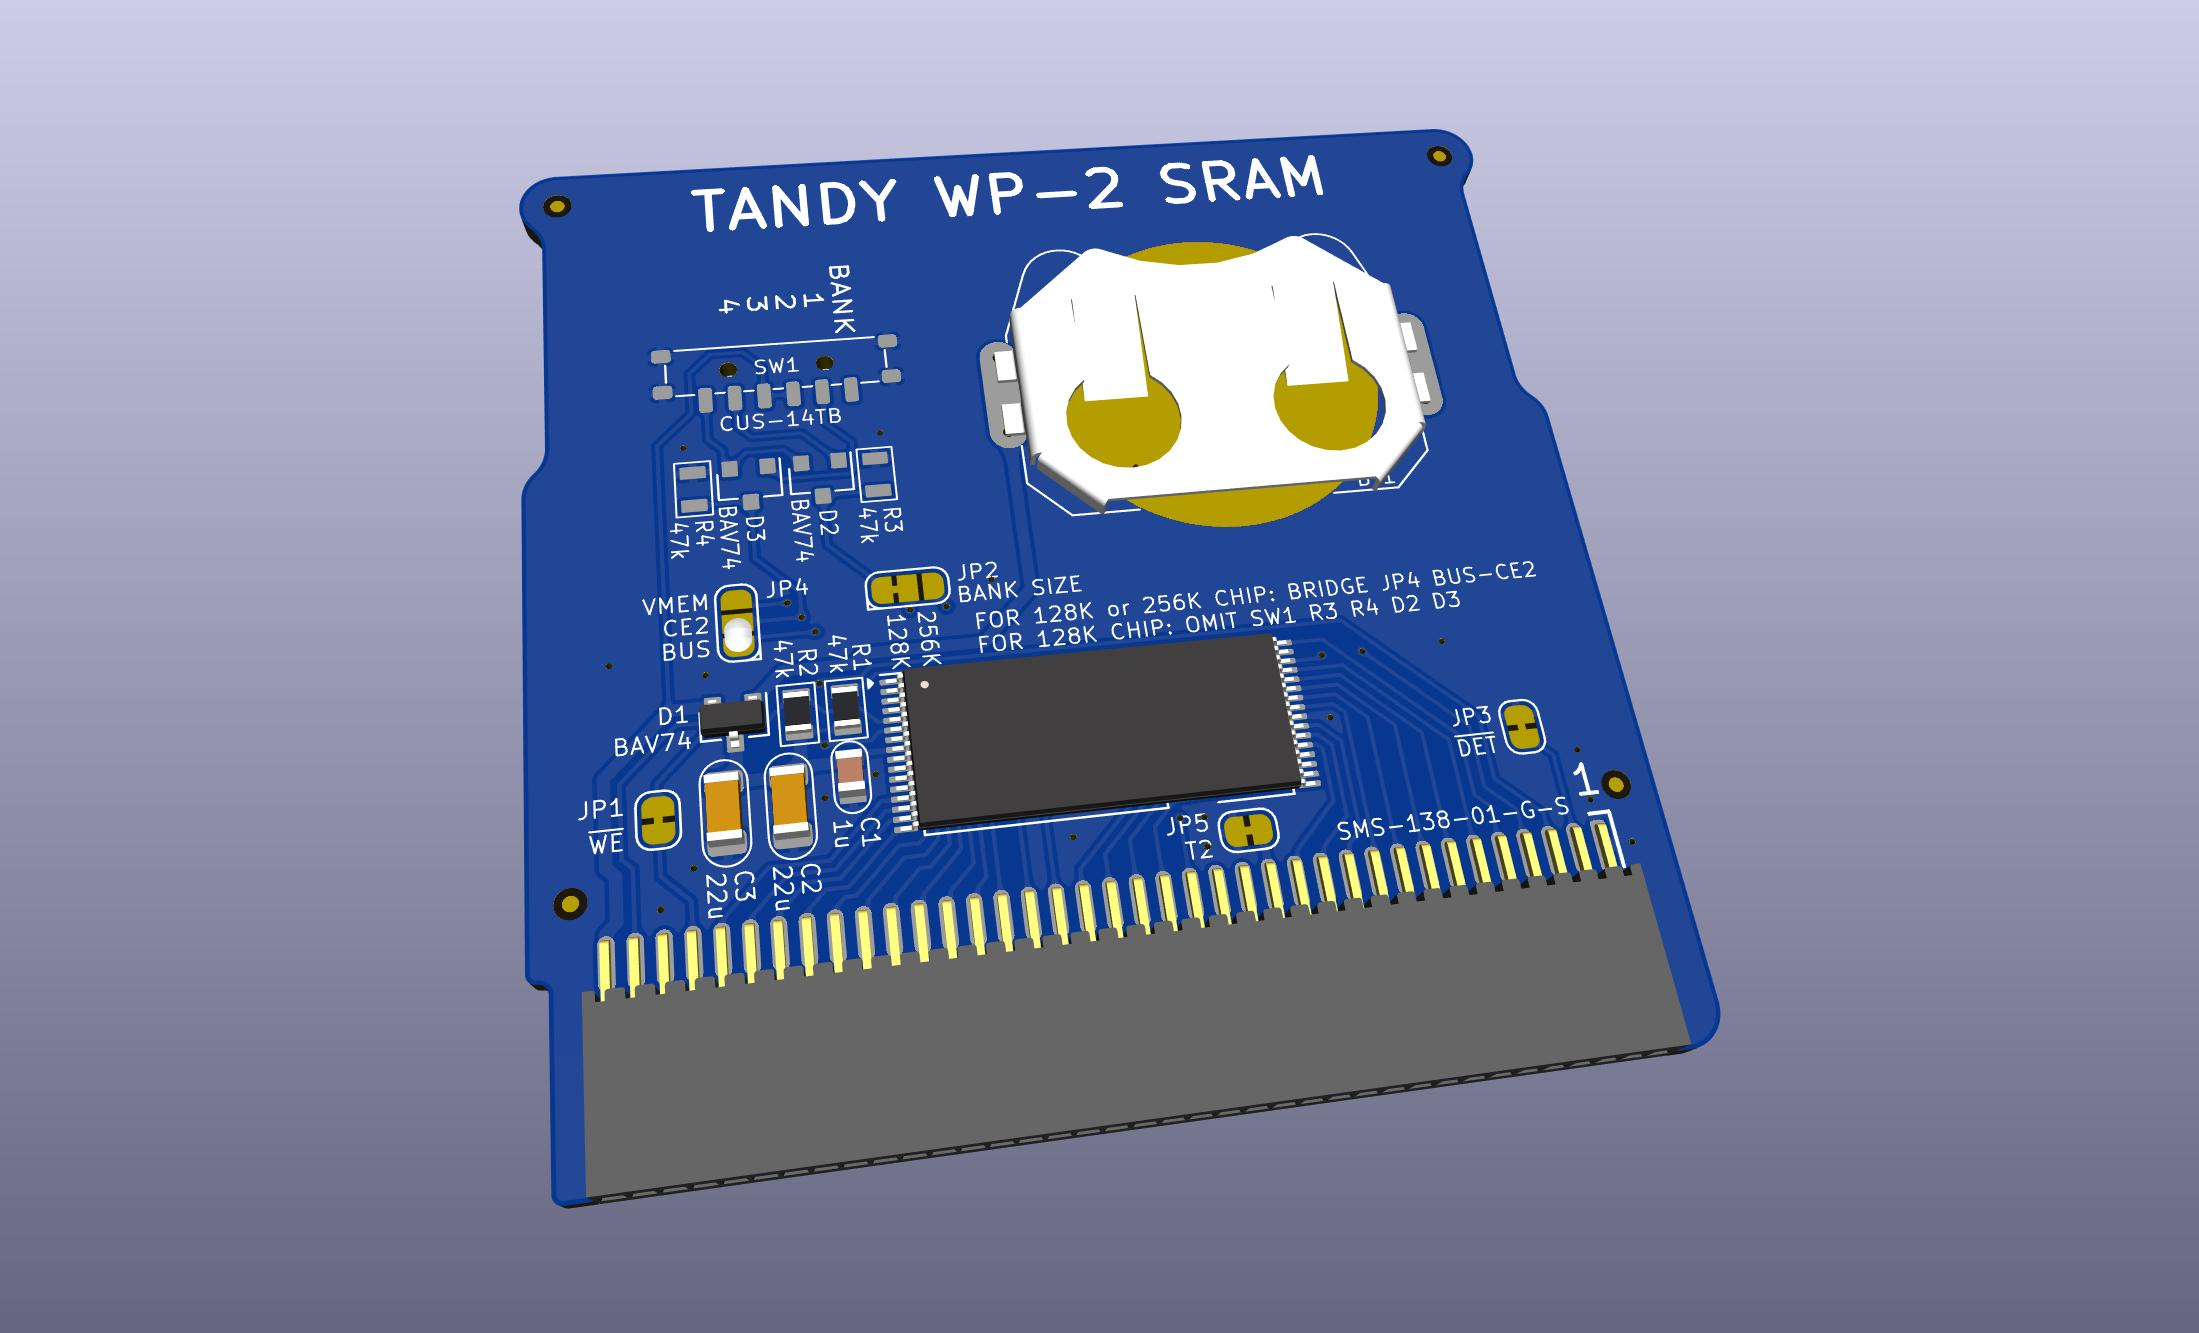
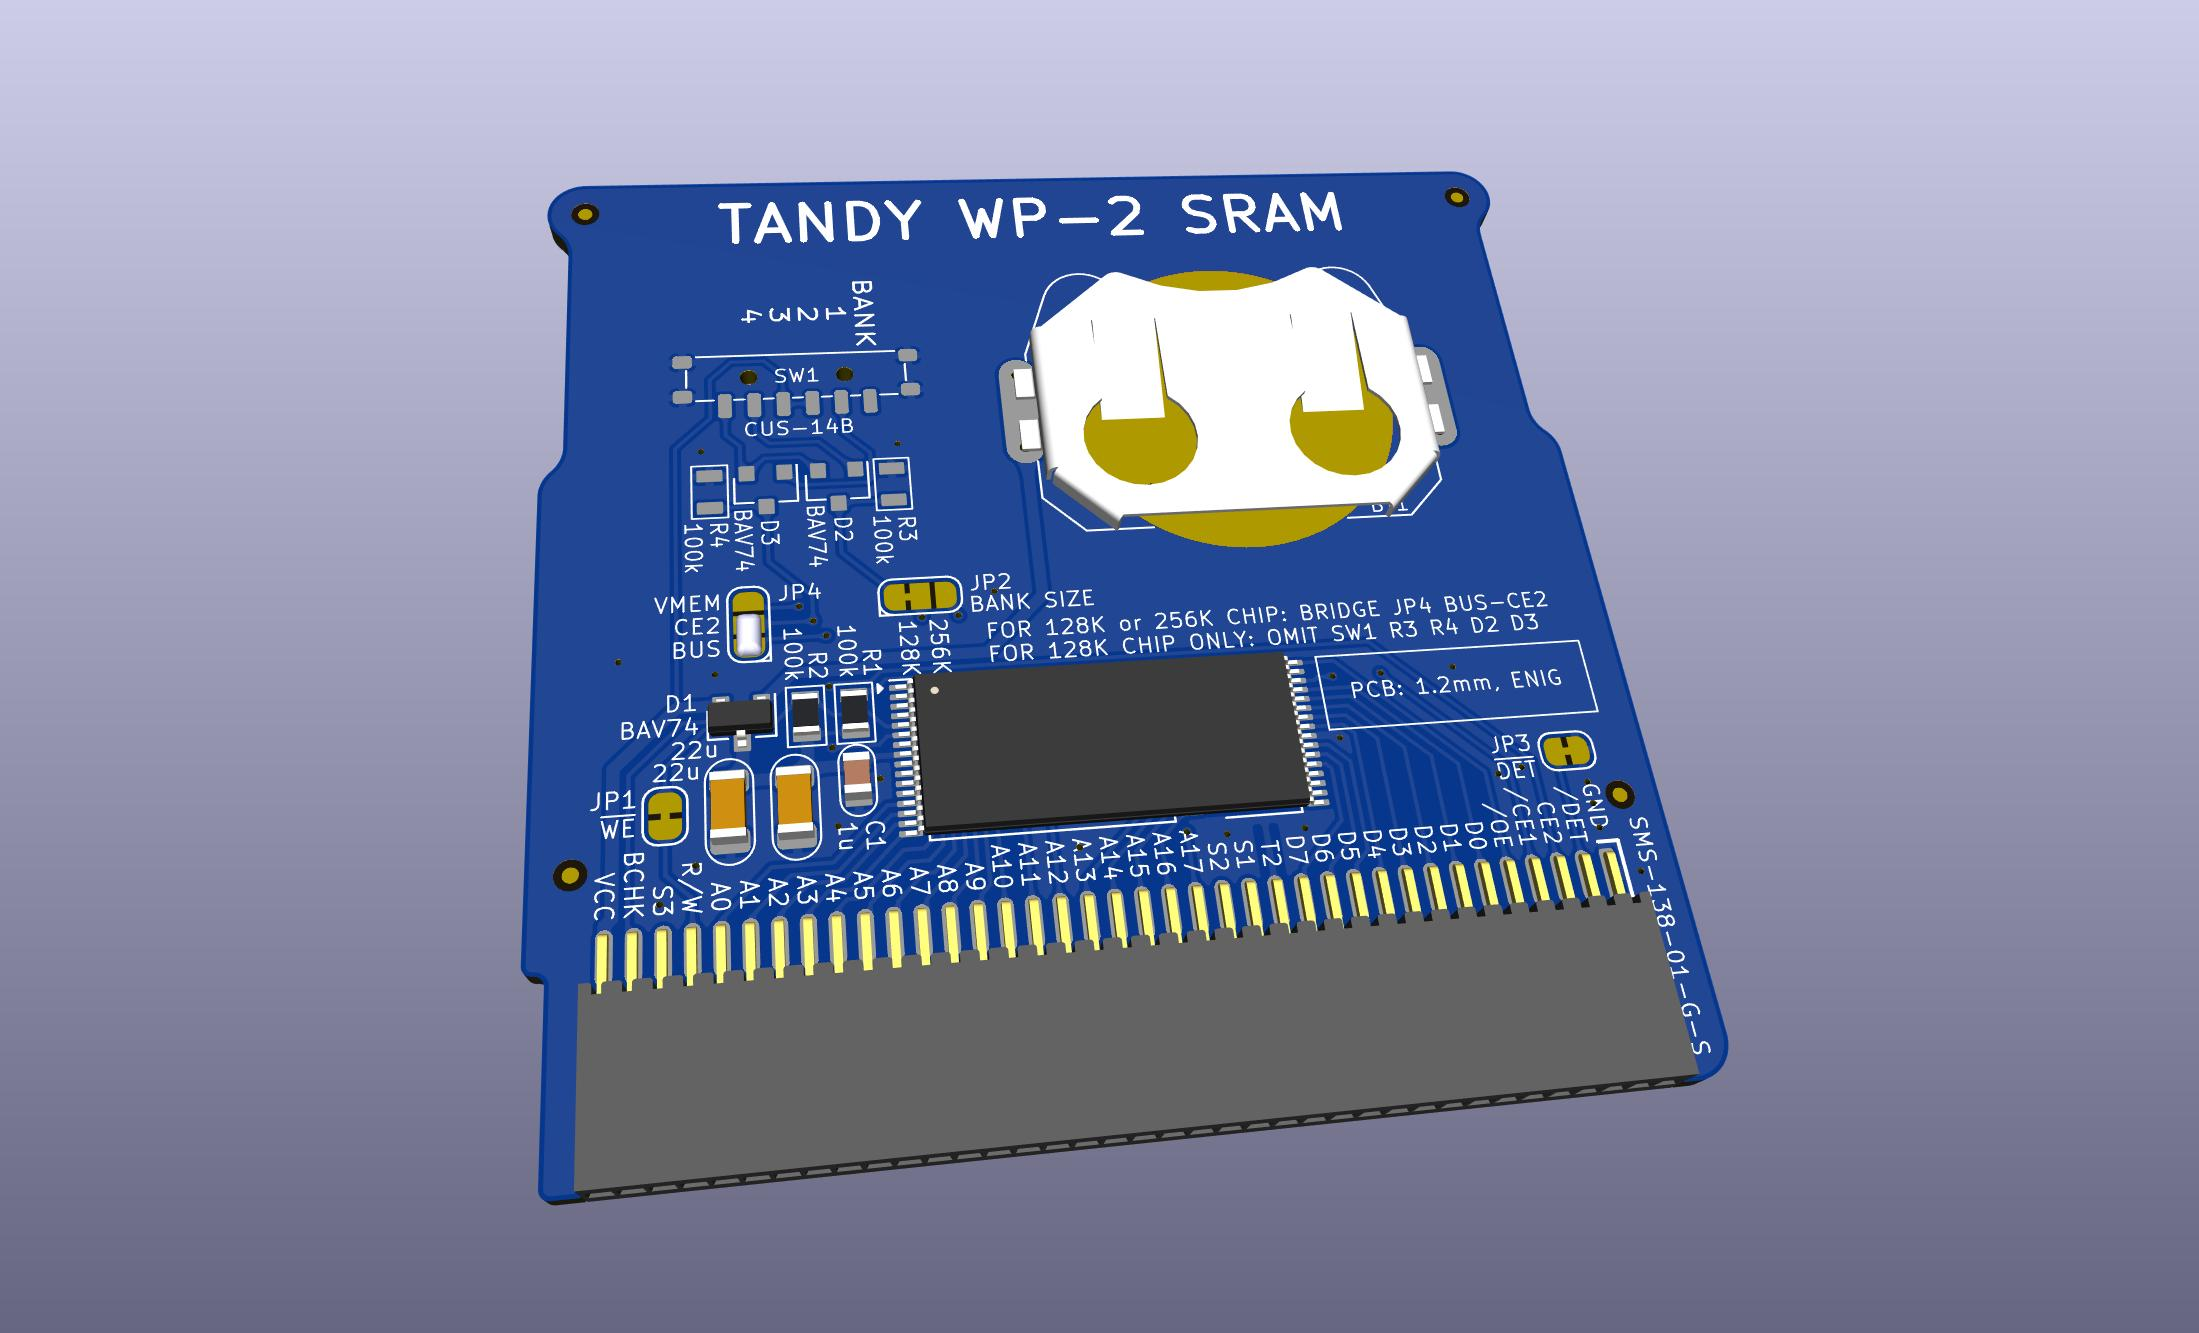
pics

Changed region(s): [[0.2165, 0.0923, 0.804, 0.9227]]

diff --git a/README.md b/README.md
@@ -94,7 +94,7 @@ Fully populated for a 256k or 512k chip
 ![](PCB/out/WP-2_IC-Card_SRAM.jpg)
 
 Configured for a 128k chip  
-![](PCB/out/WP-2_IC-Card_SRAM.128.jpg)
+![](PCB/out/WP-2_IC-Card_SRAM.ce2.jpg)
 
 ![](PCB/out/WP-2_IC-Card_SRAM.slider.jpg)  
 ![](PCB/out/WP-2_IC-Card_SRAM.finger.jpg)  
